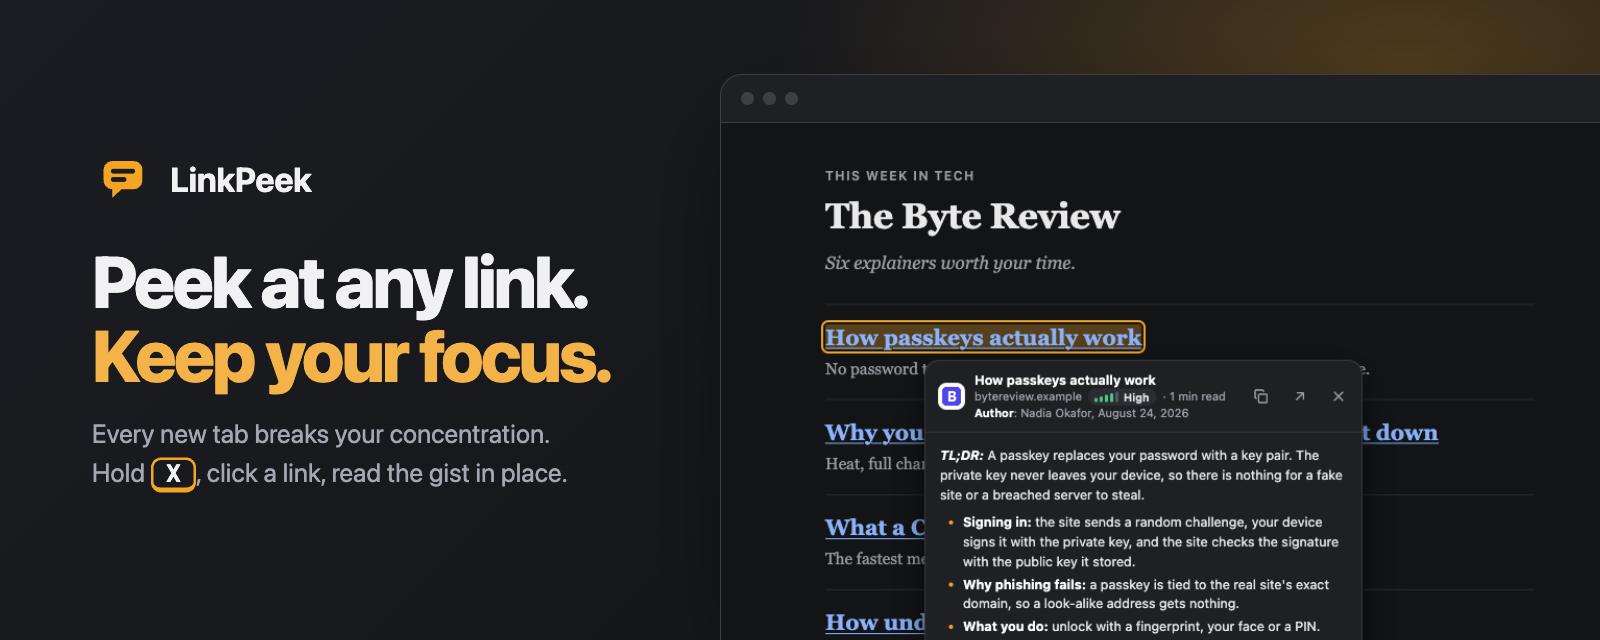
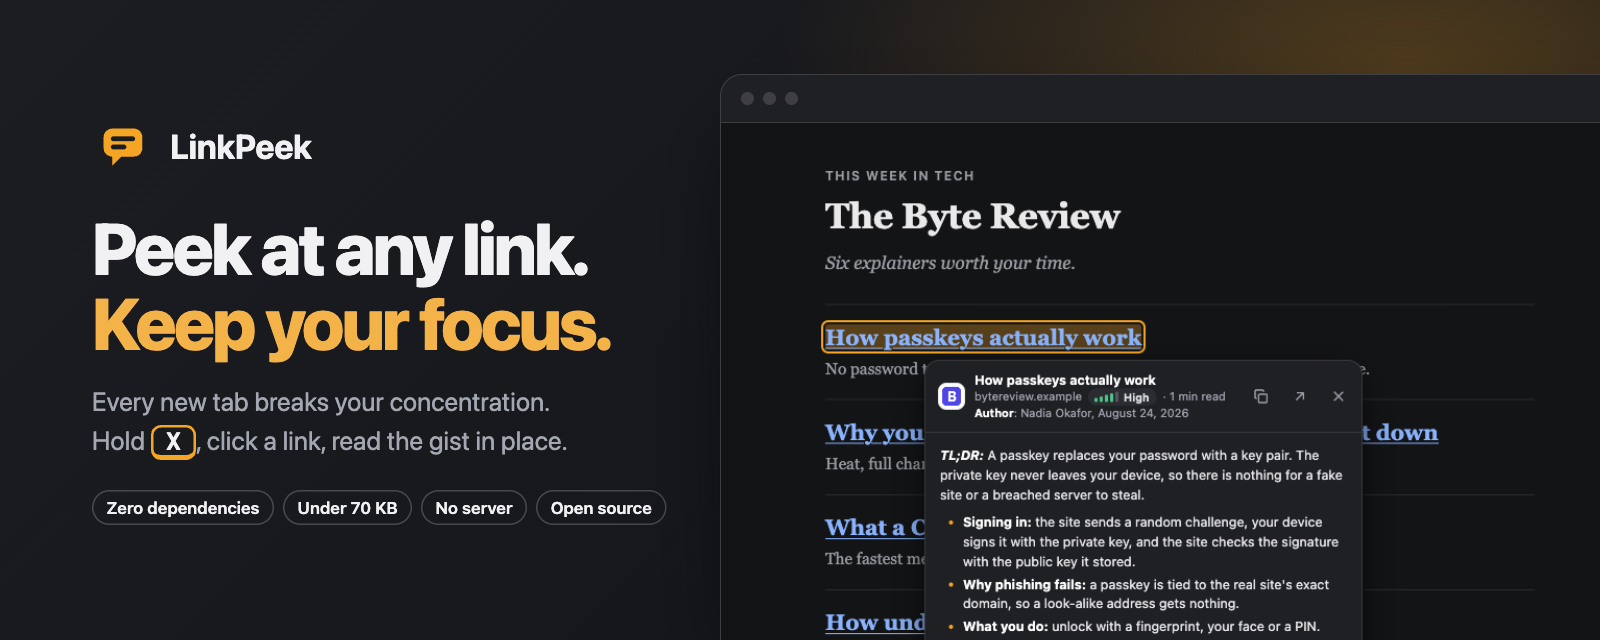
Make "zero dependencies, light" visible and enforced
- Banner: four facts under the pitch: zero dependencies, under 70 KB,
  no server, open source.
- README: a "Light by design" section, two badges, and a plain note that
  Playwright is a test tool only and never part of the extension.
- Store listing text says the same.
- test/unit/lightweight.test.js fails if package.json gains a runtime
  dependency, a source file imports from outside the extension, any code
  or style is loaded from the network, the manifest points at a file
  that needs building, or the unpacked extension grows past 250 KB.

Changed region(s): [[0.0625, 0.3438, 0.4062, 0.8125], [0.0625, 0.1875, 0.2188, 0.3125]]

diff --git a/test/unit/lightweight.test.js b/test/unit/lightweight.test.js
@@ -1,0 +1,64 @@
+// LinkPeek's promise to be light: zero dependencies, no remote code, small.
+// These tests keep that promise from eroding quietly.
+
+import test from 'node:test';
+import assert from 'node:assert/strict';
+import { readFileSync, readdirSync, statSync, existsSync } from 'node:fs';
+import path from 'node:path';
+import { fileURLToPath } from 'node:url';
+
+const ROOT = path.resolve(path.dirname(fileURLToPath(import.meta.url)), '../..');
+const read = (file) => readFileSync(path.join(ROOT, file), 'utf8');
+const walk = (dir) =>
+  readdirSync(path.join(ROOT, dir), { withFileTypes: true }).flatMap((entry) =>
+    entry.isDirectory() ? walk(path.join(dir, entry.name)) : [path.join(dir, entry.name)],
+  );
+
+const pkg = JSON.parse(read('package.json'));
+const manifest = JSON.parse(read('manifest.json'));
+const sources = walk('src');
+
+test('the extension has zero dependencies', () => {
+  for (const field of ['dependencies', 'peerDependencies', 'optionalDependencies', 'bundledDependencies']) {
+    assert.equal(pkg[field], undefined, `package.json must not have "${field}"`);
+  }
+  // The one dev tool drives the browser tests. It is never part of the extension.
+  assert.deepEqual(Object.keys(pkg.devDependencies), ['playwright']);
+});
+
+test('every import stays inside the extension', () => {
+  for (const file of sources.filter((name) => name.endsWith('.js'))) {
+    const specifiers = [...read(file).matchAll(/\bimport\b[^'"`;]*?['"]([^'"]+)['"]/g)].map((match) => match[1]);
+    for (const specifier of specifiers) {
+      assert.match(specifier, /^\.{1,2}\//, `${file} imports "${specifier}"`);
+    }
+  }
+});
+
+test('no code or styles are loaded from the network', () => {
+  for (const file of sources.filter((name) => name.endsWith('.html'))) {
+    assert.doesNotMatch(read(file), /<(script|link|iframe)[^>]+(src|href)=["']https?:/i, file);
+  }
+  for (const file of sources.filter((name) => name.endsWith('.js'))) {
+    assert.doesNotMatch(read(file), /\beval\s*\(|new Function\s*\(|importScripts\s*\(/, file);
+  }
+  assert.equal(manifest.content_security_policy, undefined, 'the default (strict) policy is kept');
+  assert.equal(manifest.web_accessible_resources, undefined, 'nothing is exposed to web pages');
+});
+
+test('there is no build step: the manifest points at files that exist as they are', () => {
+  const referenced = [
+    manifest.background.service_worker,
+    manifest.options_ui.page,
+    manifest.action.default_popup.split('?')[0],
+    ...manifest.content_scripts.flatMap((entry) => entry.js),
+    ...Object.values(manifest.icons),
+  ];
+  for (const file of referenced) assert.ok(existsSync(path.join(ROOT, file)), `${file} is missing`);
+});
+
+test('it stays small: under 250 KB unpacked', () => {
+  const shipped = [...sources, 'manifest.json', ...Object.values(manifest.icons)];
+  const bytes = shipped.reduce((sum, file) => sum + statSync(path.join(ROOT, file)).size, 0);
+  assert.ok(bytes < 250 * 1024, `${Math.round(bytes / 1024)} KB`);
+});

diff --git a/docs/hero.html b/docs/hero.html
@@ -44,6 +44,16 @@
         color: var(--fg);
         font: 700 0.92em ui-monospace, SFMono-Regular, Menlo, Consolas, monospace;
       }
+      .facts { display: flex; gap: 9px; margin: 30px 0 0; padding: 0; list-style: none; }
+      .facts li {
+        padding: 6px 13px;
+        border: 1.5px solid color-mix(in srgb, var(--fg) 22%, transparent);
+        border-radius: 999px;
+        color: var(--fg);
+        font-size: 17px;
+        font-weight: 600;
+        white-space: nowrap;
+      }
       /* A browser-window frame around the real screenshot, running off the edge. */
       .shot {
         align-self: end;
@@ -70,6 +80,12 @@
       <div class="brand"><img src="../icons/icon.svg" alt="" />LinkPeek</div>
       <h1>Peek at any link.<br /><em>Keep your focus.</em></h1>
       <p>Every new tab breaks your concentration.<br />Hold <kbd>X</kbd>, click a link, read the gist in place.</p>
+      <ul class="facts">
+        <li>Zero dependencies</li>
+        <li>Under 70 KB</li>
+        <li>No server</li>
+        <li>Open source</li>
+      </ul>
     </section>
     <section class="shot">
       <div class="bar"><i></i><i></i><i></i></div>

diff --git a/README.md b/README.md
@@ -3,7 +3,7 @@
 <h1>
   <picture>
     <source media="(prefers-color-scheme: dark)" srcset="docs/hero-dark.png">
-    <img alt="LinkPeek. Peek at any link. Keep your focus. Every new tab breaks your concentration. Hold X, click a link, read the gist in place." src="docs/hero-light.png">
+    <img alt="LinkPeek. Peek at any link. Keep your focus. Every new tab breaks your concentration. Hold X, click a link, read the gist in place. Zero dependencies, under 70 KB, no server, open source." src="docs/hero-light.png">
   </picture>
 </h1>
 
@@ -12,12 +12,13 @@
 [![CI](https://img.shields.io/github/actions/workflow/status/galinaalperovich/LinkPeek/test.yml?branch=main&style=flat-square&label=CI)](https://github.com/galinaalperovich/LinkPeek/actions/workflows/test.yml)
 [![MIT license](https://img.shields.io/badge/license-MIT-555555?style=flat-square)](LICENSE)
 [![Chrome Manifest V3](https://img.shields.io/badge/Chrome-Manifest%20V3-4285F4?style=flat-square)](manifest.json)
-[![No dependencies](https://img.shields.io/badge/dependencies-none-2e9e5b?style=flat-square)](#development)
+[![Zero dependencies](https://img.shields.io/badge/dependencies-zero-2e9e5b?style=flat-square)](#light-by-design)
+[![Under 70 KB](https://img.shields.io/badge/size-under%2070%20KB-2e9e5b?style=flat-square)](#light-by-design)
 [![Chrome Web Store](https://img.shields.io/badge/Chrome%20Web%20Store-coming%20soon-bf8a1f?style=flat-square)](#install)
 
 **[Chrome Web Store (coming soon)](#install) · [Privacy](PRIVACY.md) · [Store listing kit](store/listing.md)**
 
-[Install](#install) · [Use](#use) · [Designs](#designs) · [Settings](#settings) · [How a page is read](#how-a-page-is-read) · [Privacy](#privacy-and-security) · [Cost](#cost) · [Development](#development)
+[Install](#install) · [Use](#use) · [Designs](#designs) · [Settings](#settings) · [Light by design](#light-by-design) · [Privacy](#privacy-and-security) · [Cost](#cost) · [Development](#development)
 
 <code>git clone https://github.com/galinaalperovich/LinkPeek.git</code>
 
@@ -41,6 +42,7 @@ LinkPeek uses your own Claude (Anthropic) or OpenAI API key. It has no server of
 - **Your format.** One plain-language prompt controls length, bullets or prose, language and tone.
 - **Reads what a plain fetch cannot.** Pages that need JavaScript are opened in a muted background tab, read, and closed again. PDFs are sent to the model as documents.
 - **One key.** Paste a Claude or an OpenAI key; LinkPeek tells them apart on its own.
+- **Light.** Zero dependencies, under 70 KB, no server. See [Light by design](#light-by-design).
 
 ---
 
@@ -170,6 +172,18 @@ The key, model, design, shortcut and advanced options are saved as soon as you c
 
 Very long pages are cut at 100,000 characters (about 16,000 words); the bubble says so when it happens.
 
+## Light by design
+
+Most people are right to be wary of browser extensions. LinkPeek is built to be easy to trust:
+
+- **Zero dependencies.** Nothing is installed, bundled or downloaded. There is no `node_modules` in what you run, and no framework.
+- **Under 70 KB.** The whole extension is about 4,700 lines of plain JavaScript, HTML and CSS: small enough to read in an afternoon.
+- **No build step.** The files in this repository are the files Chrome runs. What you read is what executes.
+- **No remote code.** Nothing is loaded from the network, and there is no `eval`.
+- **No server.** LinkPeek talks only to the page you peek at and to the AI provider whose key you entered.
+
+A test ([test/unit/lightweight.test.js](test/unit/lightweight.test.js)) fails the build if a dependency, a non-local import, remote code or bloat ever creeps in.
+
 ## Privacy and security
 
 - Your API key is stored on your device, in the extension's own database, which web pages and the script LinkPeek runs inside them cannot read. It is sent only to the API it belongs to (or to the base URL you set).
@@ -206,7 +220,9 @@ Every peek sends the page text to your provider and is billed to your key. A typ
 
 ## Development
 
-Plain JavaScript, no bundler, no runtime dependencies. Edit a file, press the reload button on `chrome://extensions`, and it is live.
+Plain JavaScript, no bundler, zero dependencies. Edit a file, press the reload button on `chrome://extensions`, and it is live.
+
+The only package in `package.json` is Playwright, a development tool that drives the browser tests and takes the screenshots. It is never part of the extension.
 
 ```
 manifest.json

diff --git a/store/listing.md b/store/listing.md
@@ -50,6 +50,10 @@ You can change the X key to any letter or digit in the settings.
 YOU BRING YOUR OWN KEY
 LinkPeek has no server, no account and no subscription. It talks directly to the AI provider whose key you enter, and that provider bills you for what you use. A typical summary costs between a fraction of a cent and a few cents, depending on the model you choose.
 
+SMALL AND EASY TO TRUST
+• Zero dependencies and no remote code: everything it runs is in the package, under 70 KB.
+• Open source, with no build step. The code you can read on GitHub is the code that runs.
+
 PRIVACY
 • Your API key is stored on your device only and is sent only to the provider it belongs to.
 • The text of a page is sent to your AI provider only when you peek at it. Nothing is sent anywhere else. There is no analytics and no tracking.
